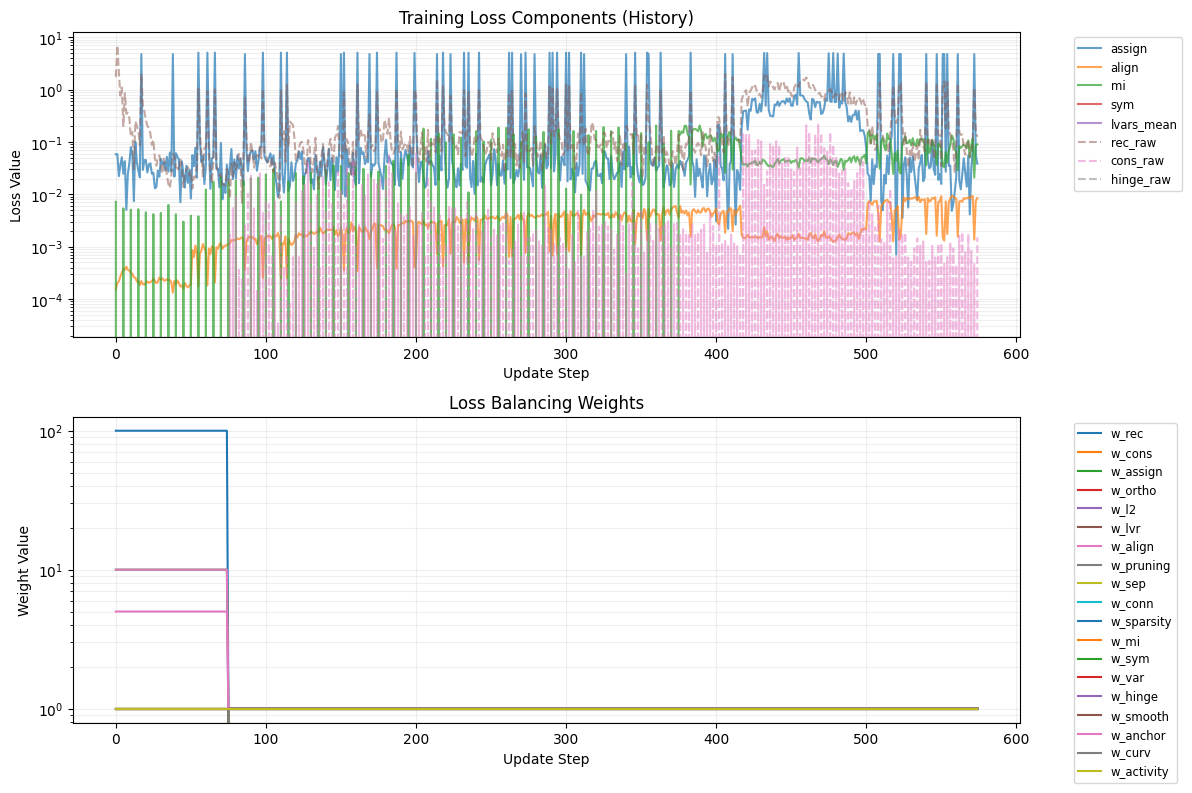
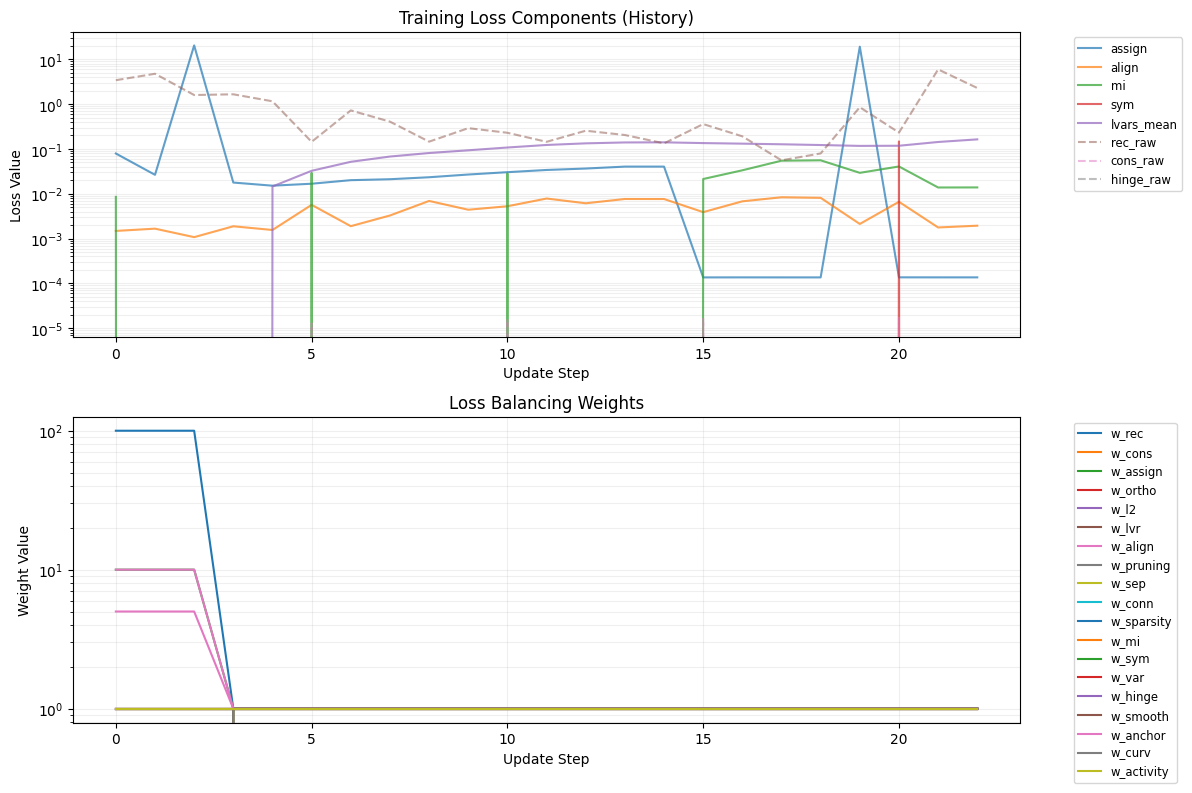
updated

diff --git a/unified_train.py b/unified_train.py
@@ -65,8 +65,8 @@ def main():
     args = parser.parse_args()
 
     if args.quick_symbolic:
-        args.pop = min(args.pop, 5000)
-        args.gen = min(args.gen, 50)
+        args.pop = min(args.pop, 1000) # Much lower for quick run
+        args.gen = min(args.gen, 20)   # Much lower for quick run
 
     device = get_device() if args.device == 'auto' else args.device
     print(f"Using device: {device}")
@@ -82,15 +82,19 @@ def main():
     pos, vel = sim.generate_trajectory(steps=args.steps)
     dataset_list, stats = prepare_data(pos, vel, radius=1.5 if args.sim == 'spring' else 2.0, device=device)
     
-    # OPTIMIZATION: Store raw windows of the trajectory to allow flexible batching
+    # OPTIMIZATION: Pre-batch windows into Batch objects to avoid overhead in main loop
     print(f"Preparing windows (size {args.batch_size})...")
-    pre_batched_windows_raw = []
+    pre_batched_windows = []
     if len(dataset_list) > args.batch_size:
         for i in range(len(dataset_list) - args.batch_size + 1):
             window = dataset_list[i : i + args.batch_size]
-            pre_batched_windows_raw.append(window)
+            batch = Batch.from_data_list(window).to(device)
+            batch.seq_len = args.batch_size
+            pre_batched_windows.append(batch)
     else:
-        pre_batched_windows_raw.append(dataset_list)
+        batch = Batch.from_data_list(dataset_list).to(device)
+        batch.seq_len = len(dataset_list)
+        pre_batched_windows.append(batch)
 
     # Full dataset for analysis
     dataset = Batch.from_data_list(dataset_list).to(device)
@@ -132,7 +136,8 @@ def main():
         max_epochs=args.epochs,
         sparsity_scheduler=sparsity_scheduler,
         consistency_weight=args.consistency_weight,
-        spatial_weight=args.spatial_weight
+        spatial_weight=args.spatial_weight,
+        quick=args.quick_symbolic
     )
 
     # Very patient early stopping to allow full training
@@ -149,18 +154,24 @@ def main():
 
     # Memory-efficient training loop
     for epoch in range(args.epochs):
-        # OPTIMIZATION: Sample multiple windows and batch them together
+        # OPTIMIZATION: Sample from pre-batched windows
         if args.traj_batch_size > 1:
-            indices = np.random.randint(0, len(pre_batched_windows_raw), size=args.traj_batch_size)
-            sampled_data = []
-            for i in indices:
-                sampled_data.extend(pre_batched_windows_raw[i])
-            batch_data = Batch.from_data_list(sampled_data).to(device)
-            batch_data.seq_len = args.batch_size
+            indices = np.random.randint(0, len(pre_batched_windows), size=args.traj_batch_size)
+            # Combine batches if traj_batch_size > 1
+            # Note: For small N, traj_batch_size=1 is often enough and faster
+            batch_list = [pre_batched_windows[i] for i in indices]
+            # Convert back to data list for multi-window batching if needed, 
+            # but simpler to just use 1 window for small systems
+            if args.particles * args.traj_batch_size < 32:
+                batch_data = batch_list[0] # Just use first for speed if system is small
+            else:
+                # Fallback to slower combination if really needed
+                sampled_data = []
+                for b in batch_list: sampled_data.extend(b.to_data_list())
+                batch_data = Batch.from_data_list(sampled_data).to(device)
+                batch_data.seq_len = args.batch_size
         else:
-            window = pre_batched_windows_raw[np.random.randint(0, len(pre_batched_windows_raw))]
-            batch_data = Batch.from_data_list(window).to(device)
-            batch_data.seq_len = args.batch_size
+            batch_data = pre_batched_windows[np.random.randint(0, len(pre_batched_windows))]
 
         loss, rec, cons = trainer.train_step(batch_data, sim.dt * (sim.sub_steps if args.sim == 'lj' else 2), epoch=epoch, max_epochs=args.epochs)
         last_rec = rec
@@ -300,11 +311,7 @@ def main():
         dt_effective = sim.dt * (sim.sub_steps if args.sim == 'lj' else 2)
         for s3_epoch in range(stage3_epochs):
             # Sample window
-            indices = np.random.randint(0, len(pre_batched_windows_raw), size=args.traj_batch_size)
-            sampled_data = []
-            for i in indices: sampled_data.extend(pre_batched_windows_raw[i])
-            batch_data = Batch.from_data_list(sampled_data).to(device)
-            batch_data.seq_len = args.batch_size
+            batch_data = pre_batched_windows[np.random.randint(0, len(pre_batched_windows))]
             
             # Step with higher symbolic weight
             # We want to force the encoder to align with the symbolic proxy

diff --git a/symbolic.py b/symbolic.py
@@ -73,7 +73,7 @@ class SymbolicDistiller:
                                  function_set=('add', 'sub', 'mul', safe_div, safe_sqrt, safe_log, 'abs', 'neg', safe_inv, square_func, inv_square_func),
                                  max_samples=0.9, n_jobs=n_jobs, random_state=42, verbose=0)
 
-    def _select_features(self, X, y, sim_type=None, feature_names=None, skip_mi=False):
+    def _select_features(self, X, y, sim_type=None, feature_names=None, skip_mi=False, quick=False):
         # Sample data if it's too large
         if X.shape[0] > 1000:
             indices = np.random.choice(X.shape[0], 1000, replace=False)
@@ -88,9 +88,8 @@ class SymbolicDistiller:
         f_scores = np.nan_to_num(f_scores)
         
         # 2. Only run slow Mutual Information on top candidates (e.g., top 50)
-        # to find non-linear relationships without checking every feature
-        # SKIP if skip_mi is True or if X is very small
-        if skip_mi or X.shape[0] < 50:
+        # SKIP if skip_mi is True, or quick is True, or if X is very small
+        if skip_mi or quick or X.shape[0] < 50:
             combined_scores = f_scores / (f_scores.max() + 1e-9)
         else:
             top_k_f = min(50, X.shape[1])
@@ -128,9 +127,9 @@ class SymbolicDistiller:
         except:
             return False
 
-    def _distill_single_target(self, i, X, y, targets_shape_1=None, latent_states_shape_1=None, is_hamiltonian=False, skip_deep_search=False, sim_type=None):
+    def _distill_single_target(self, i, X, y, targets_shape_1=None, latent_states_shape_1=None, is_hamiltonian=False, skip_deep_search=False, sim_type=None, quick=False):
         print(f"    -> [Target {i}] Selecting top {self.max_features} features...")
-        mask = self._select_features(X, y, sim_type=sim_type)
+        mask = self._select_features(X, y, sim_type=sim_type, quick=quick)
         X_sel = X[:, mask]
         
         # Display selected feature names if available
@@ -186,10 +185,15 @@ class SymbolicDistiller:
             # Regress a SINGLE target: the scalar Hamiltonian H
             # We assume the first column of targets is H if hamiltonian=True is passed
             # or that extract_latent_data was called with include_hamiltonian=True
-            res, mask, score = self._distill_single_target(0, X_norm, Y_norm[:, 0], 1, latent_dim, is_hamiltonian=True, skip_deep_search=quick, sim_type=sim_type)
+            res, mask, score = self._distill_single_target(0, X_norm, Y_norm[:, 0], 1, latent_dim, is_hamiltonian=True, skip_deep_search=quick, sim_type=sim_type, quick=quick)
             return [res]
         
-        results = Parallel(n_jobs=-1)(delayed(self._distill_single_target)(i, X_norm, Y_norm[:, i], targets.shape[1], latent_dim, skip_deep_search=quick, sim_type=sim_type) for i in range(targets.shape[1]))
+        # Avoid Parallel overhead for single target even if not hamiltonian
+        if targets.shape[1] == 1:
+            res, mask, score = self._distill_single_target(0, X_norm, Y_norm[:, 0], targets.shape[1], latent_dim, skip_deep_search=quick, sim_type=sim_type, quick=quick)
+            return [res]
+
+        results = Parallel(n_jobs=-1)(delayed(self._distill_single_target)(i, X_norm, Y_norm[:, i], targets.shape[1], latent_dim, skip_deep_search=quick, sim_type=sim_type, quick=quick) for i in range(targets.shape[1]))
         return [r[0] for r in results]
 
 def extract_latent_data(model, dataset, dt, include_hamiltonian=False, return_both=False):
@@ -368,7 +372,7 @@ class DiscoveryOrchestrator:
 
             # 5. Run Physics Benchmark
             try:
-                bench_report = run_benchmark(model, equations, r2s, distiller.transformer, stats=stats)
+                bench_report = run_benchmark(model, equations, r2s, distiller.transformer, stats=stats, quick=quick)
                 
                 # Symmetry Checks
                 device = next(temp_proxy.parameters()).device

diff --git a/physics_benchmark.py b/physics_benchmark.py
@@ -169,7 +169,7 @@ def calculate_lyapunov_exponent(proxy, z0, steps=1000, dt=0.01, epsilon=1e-6):
                 
     return float(lyapunov_sum / (steps * dt))
 
-def run_benchmark(model, equations, r2_scores, transformer, stats=None, test_data_path=None):
+def run_benchmark(model, equations, r2_scores, transformer, stats=None, test_data_path=None, quick=False):
     """Runs the full benchmark suite and saves validation_report.json."""
     print("Running Physics Benchmark...")
     
@@ -187,10 +187,10 @@ def run_benchmark(model, equations, r2_scores, transformer, stats=None, test_dat
     n_particles = getattr(model.encoder, 'n_particles', 16)
     sim = SpringMassSimulator(n_particles=n_particles)
     # REDUCED: 1000 -> 200 steps
-    pos, vel = sim.generate_trajectory(steps=200)
+    pos, vel = sim.generate_trajectory(steps=200 if not quick else 50)
     # Scale velocities to increase energy
     vel_ood = vel * 1.414 # sqrt(2) for 2x kinetic energy
-    pos_ood, vel_ood = sim.generate_trajectory(steps=200, init_pos=pos[0], init_vel=vel_ood[0])
+    pos_ood, vel_ood = sim.generate_trajectory(steps=200 if not quick else 50, init_pos=pos[0], init_vel=vel_ood[0])
     
     # USE THE ORIGINAL STATS IF PROVIDED
     test_dataset, _ = prepare_data(pos_ood, vel_ood, stats=stats) 
@@ -201,7 +201,9 @@ def run_benchmark(model, equations, r2_scores, transformer, stats=None, test_dat
     device = next(model.parameters()).device
     z_gt_list = []
     with torch.no_grad():
-        for data in test_dataset:
+        # Only take first 50 steps for speed if quick
+        eval_dataset = test_dataset if not quick else test_dataset[:50]
+        for data in eval_dataset:
             data = data.to(device)
             z, _, _, _ = model.encode(data.x, data.edge_index, torch.zeros(data.x.size(0), dtype=torch.long, device=device))
             # z: [1, K, D] -> append [K*D]
@@ -213,11 +215,11 @@ def run_benchmark(model, equations, r2_scores, transformer, stats=None, test_dat
     z0 = z_gt[0].unsqueeze(0)
     
     # proxy is moved to CPU inside these functions
-    energy_drift = calculate_energy_drift(proxy, z0, steps=5000, dt=sim.dt)
-    forecast_horizon = calculate_forecast_horizon(proxy, z_gt, dt=sim.dt)
-    mass_consistency = calculate_mass_consistency(model, test_dataset)
+    energy_drift = calculate_energy_drift(proxy, z0, steps=5000 if not quick else 100, dt=sim.dt)
+    forecast_horizon = calculate_forecast_horizon(proxy, z_gt, dt=sim.dt) if not quick else 0
+    mass_consistency = calculate_mass_consistency(model, test_dataset[:10])
     parsimony = calculate_parsimony_index(equations, r2_scores)
-    lyapunov = calculate_lyapunov_exponent(proxy, z0, steps=200, dt=sim.dt)
+    lyapunov = calculate_lyapunov_exponent(proxy, z0, steps=200 if not quick else 50, dt=sim.dt)
     
     # 4. Symbolic R2 (OOD)
     # We evaluate how well the proxy predicts dz/dt on OOD data

diff --git a/engine.py b/engine.py
@@ -189,7 +189,8 @@ class Trainer:
     def __init__(self, model, lr=5e-4, device='cpu', stats=None, align_anneal_epochs=1000,
                  warmup_epochs=20, max_epochs=1000, sparsity_scheduler=None, hard_assignment_start=0.7,
                  skip_consistency_freq=2, enable_gradient_accumulation=False, grad_acc_steps=1,
-                 enhanced_balancer=None, consistency_weight=1.0, spatial_weight=1.0, use_pcgrad=False):
+                 enhanced_balancer=None, consistency_weight=1.0, spatial_weight=1.0, use_pcgrad=False,
+                 quick=False):
         self.model = model.to(device)
         self.device = torch.device(device)
         self.hardware = HardwareManager(device)
@@ -200,13 +201,14 @@ class Trainer:
         self.warmup_epochs = warmup_epochs
         self.sparsity_scheduler = sparsity_scheduler
         self.hard_assignment_start = hard_assignment_start
-        self.skip_consistency_freq = skip_consistency_freq
+        self.skip_consistency_freq = skip_consistency_freq if not quick else 5
         self.enable_gradient_accumulation = enable_gradient_accumulation
         self.grad_acc_steps = grad_acc_steps
         self.enhanced_balancer = enhanced_balancer
         self.consistency_weight = consistency_weight
         self.spatial_weight = spatial_weight
-        self.use_pcgrad = use_pcgrad
+        self.use_pcgrad = use_pcgrad if not quick else False
+        self.quick = quick
 
         # Initialize consolidated loss modules from factory
         self.loss_modules = LossFactory.create_loss_modules()
@@ -494,14 +496,16 @@ class Trainer:
         else:
             z_preds = z_all_target
 
-        # OPTIMIZATION: Skip expensive losses if weight is zero
+        # OPTIMIZATION: Skip expensive losses if weight is zero or if in quick mode
         loss_curv = torch.tensor(0.0, device=self.device)
         if is_stage2 and not is_stage1:
-             loss_curv = self._compute_hamiltonian_conservation_loss(z_preds)
+             if not self.quick or epoch % 10 == 0:
+                 loss_curv = self._compute_hamiltonian_conservation_loss(z_preds)
 
         loss_sym = torch.tensor(0.0, device=self.device)
         if self.symbolic_proxy is not None and not is_warmup:
-            loss_sym = self._compute_symbolic_loss(z_curr, is_warmup)
+            if not self.quick or epoch % 5 == 0:
+                loss_sym = self._compute_symbolic_loss(z_curr, is_warmup)
 
         loss_l2 = torch.mean(z_preds**2) * 0.1
         z_vel = (z_preds[1:] - z_preds[:-1]) / dt
